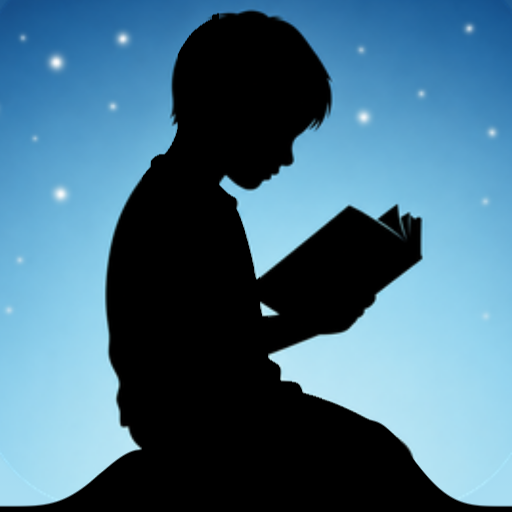
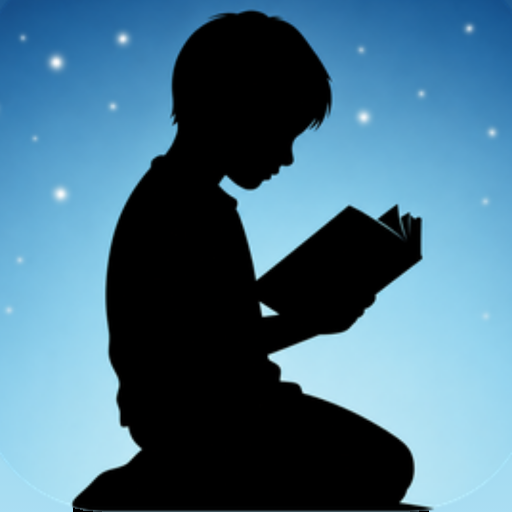
L'icône : le noir sous le personnage descend jusqu'au bord, rien d'inventé
Les trois versions précédentes partaient d'une erreur de lecture de l'image. En
agrandissant le bas, il n'y a pas de colline : ce que je prenais pour un
monticule, ce sont ses jambes et son pied. Je dessinais donc un décor par-dessus
un personnage, ce qui ne pouvait pas donner un résultat juste.

Il ne manquait qu'une chose : une mince bande claire subsistait sous sa jambe et
son pied, entre eux et le bord de l'image. Le noir déjà présent est maintenant
prolongé TOUT DROIT vers le bas jusqu'au bord, colonne par colonne, avec deux
pixels de fondu pour ne pas faire de marche. Aucun contour n'est modifié : ses
pieds, ses jambes et sa silhouette sont ceux de l'origine, au pixel près. Rien
n'est ajouté sur les côtés — le bord bas est sombre sur 70 % de sa largeur,
c'est-à-dire exactement l'empreinte du personnage.

Le baisser dans le cadre a été essayé puis écarté : glisser l'image vers le bas
fait sortir le bas de son pied, ce qui revient à le détruire.

Les trois tailles sont régénérées ensemble depuis l'original.

diff --git a/sw.js b/sw.js
@@ -1,6 +1,6 @@
 /* BibleTrivia — service worker : rend l'app jouable hors connexion.
    À déposer à côté de index.html (même dossier, nom exact "sw.js"). */
-const CACHE = "bibletrivia-v92";
+const CACHE = "bibletrivia-v93";
 const CORE = ["./", "./index.html", "./manifest.json", "./apple-touch-icon.png", "./icon-192.png", "./icon-512.png", "./fonts/inter-latin.woff2", "./fonts/inter-latinext.woff2", "./fonts/fraunces-italic-latin.woff2", "./fonts/fraunces-italic-latinext.woff2", "./fonts/poppins-500-latin.woff2", "./fonts/poppins-500-latinext.woff2", "./fonts/poppins-600-latin.woff2", "./fonts/poppins-600-latinext.woff2", "./fonts/poppins-700-latin.woff2", "./fonts/poppins-700-latinext.woff2"];
 self.addEventListener("install", (e) => {
   e.waitUntil(caches.open(CACHE).then((c) => c.addAll(CORE)).catch(() => {}));
